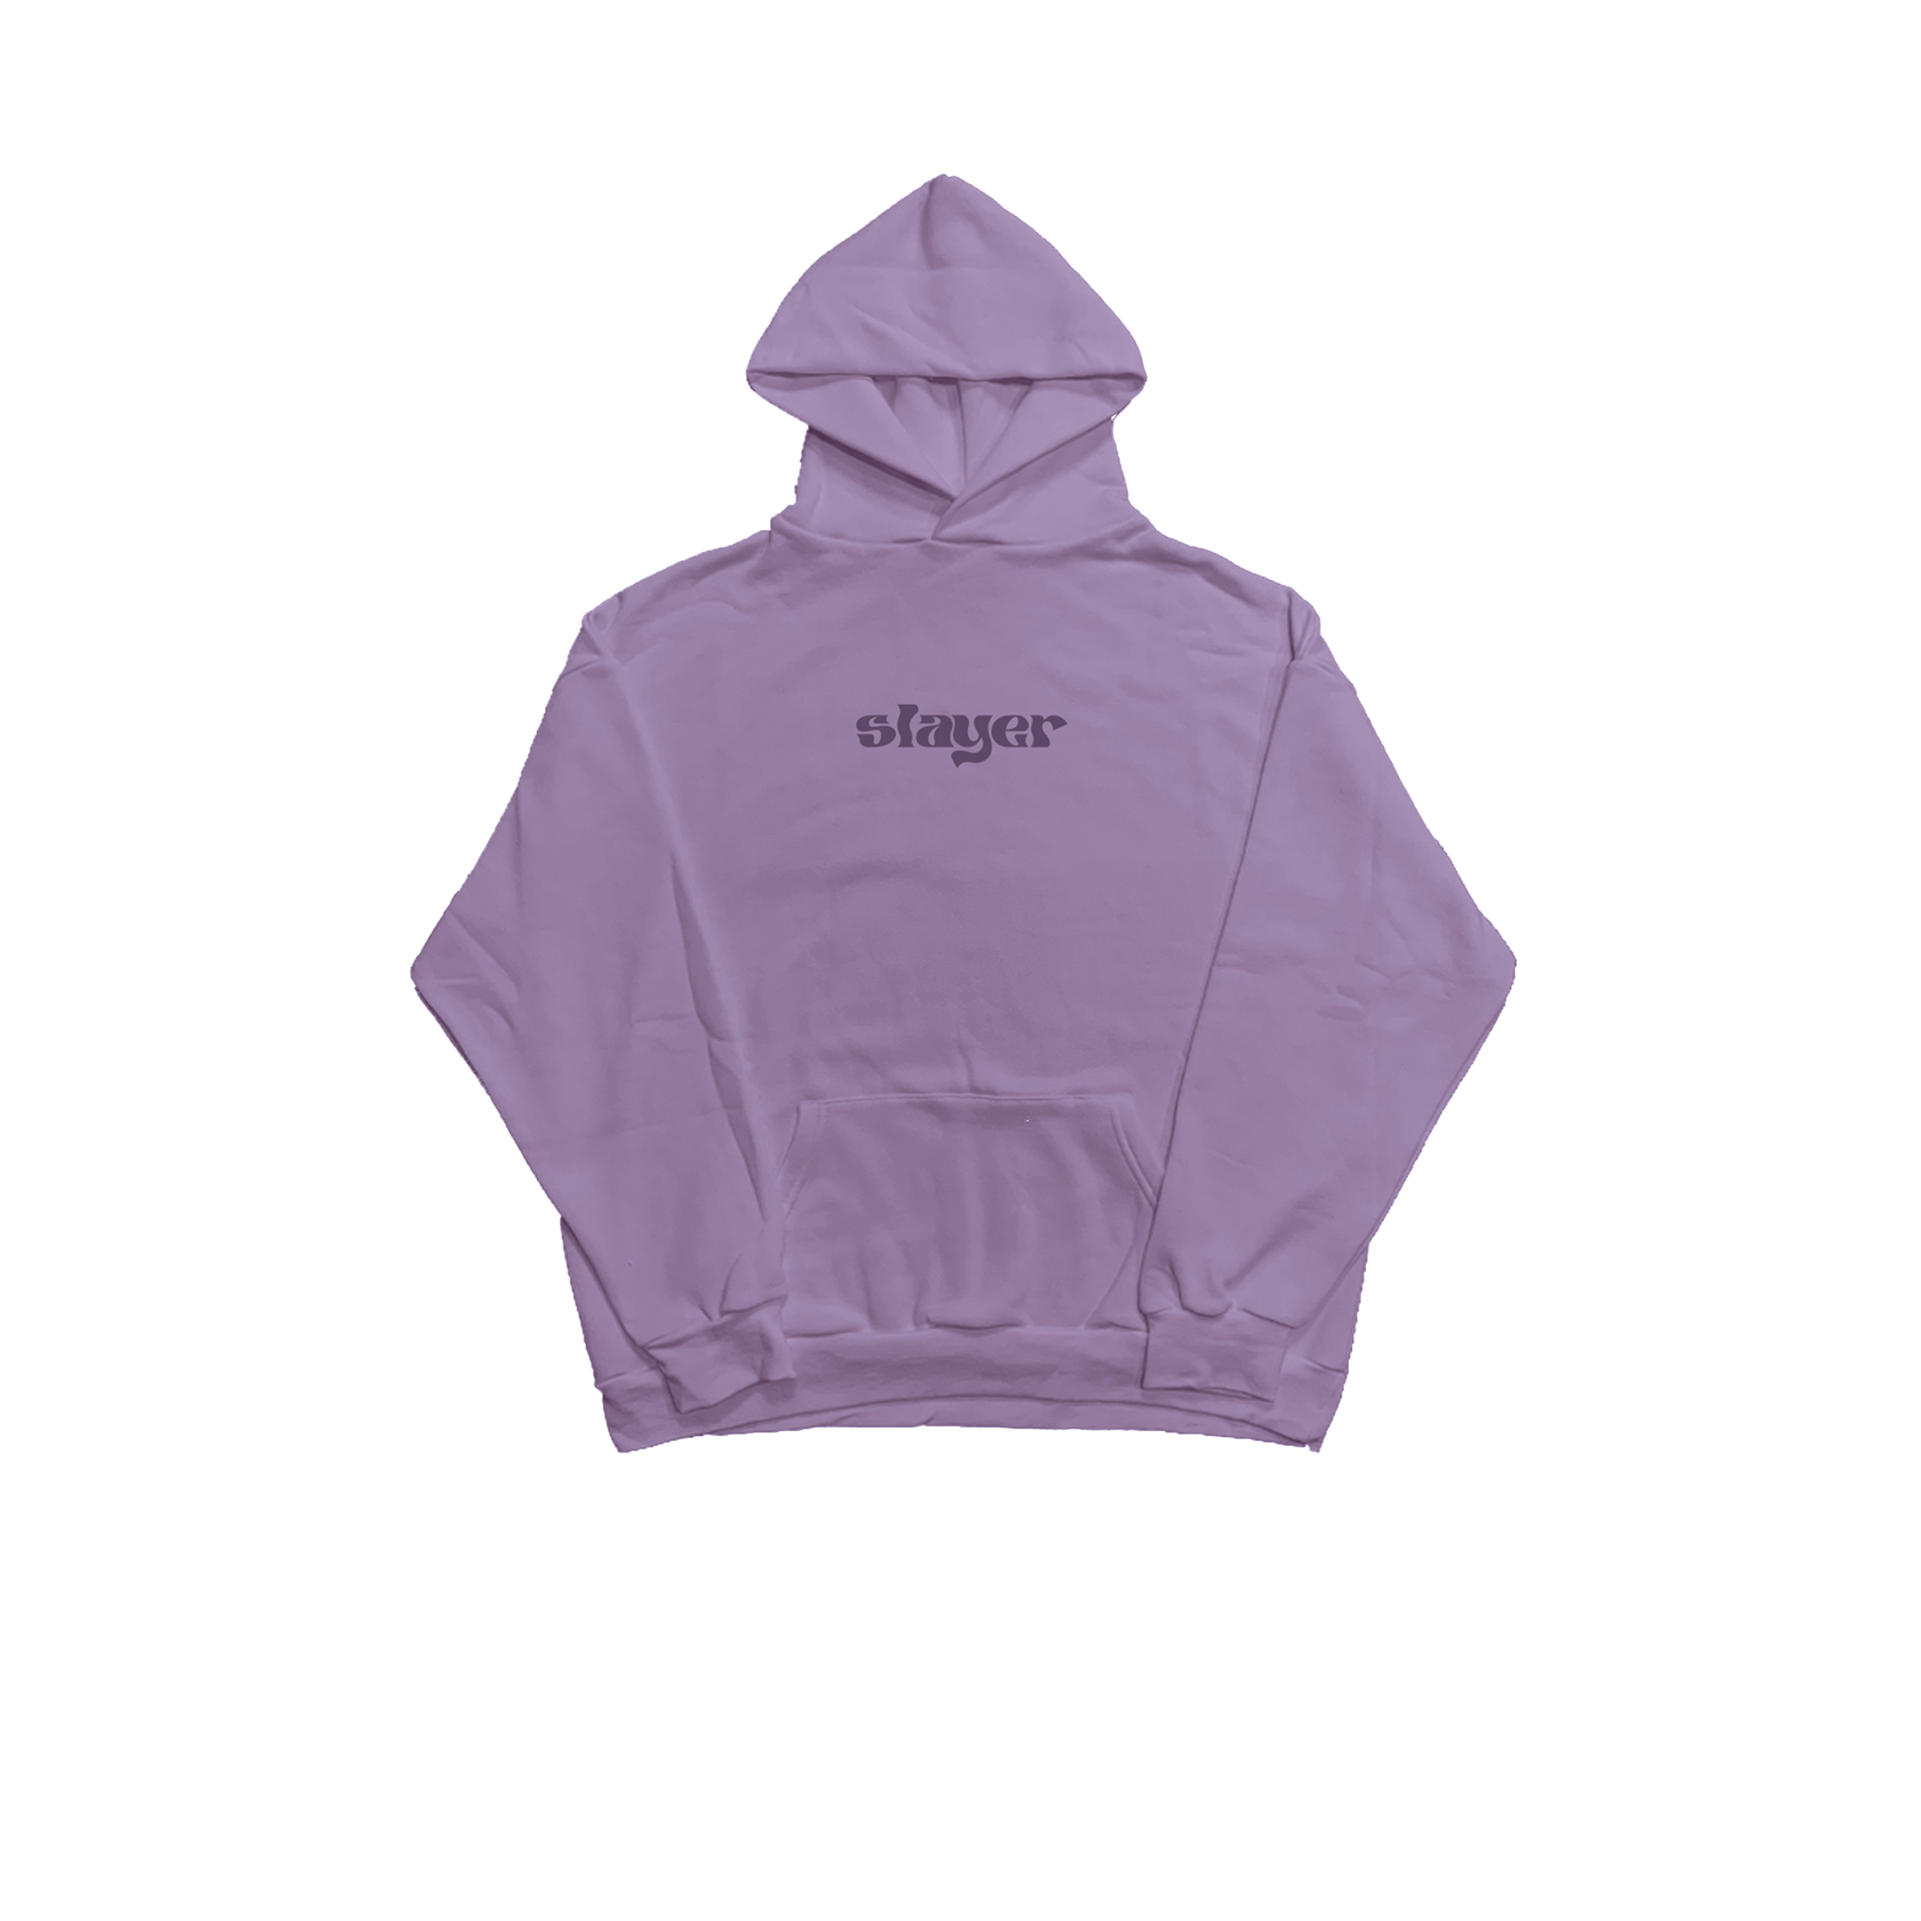
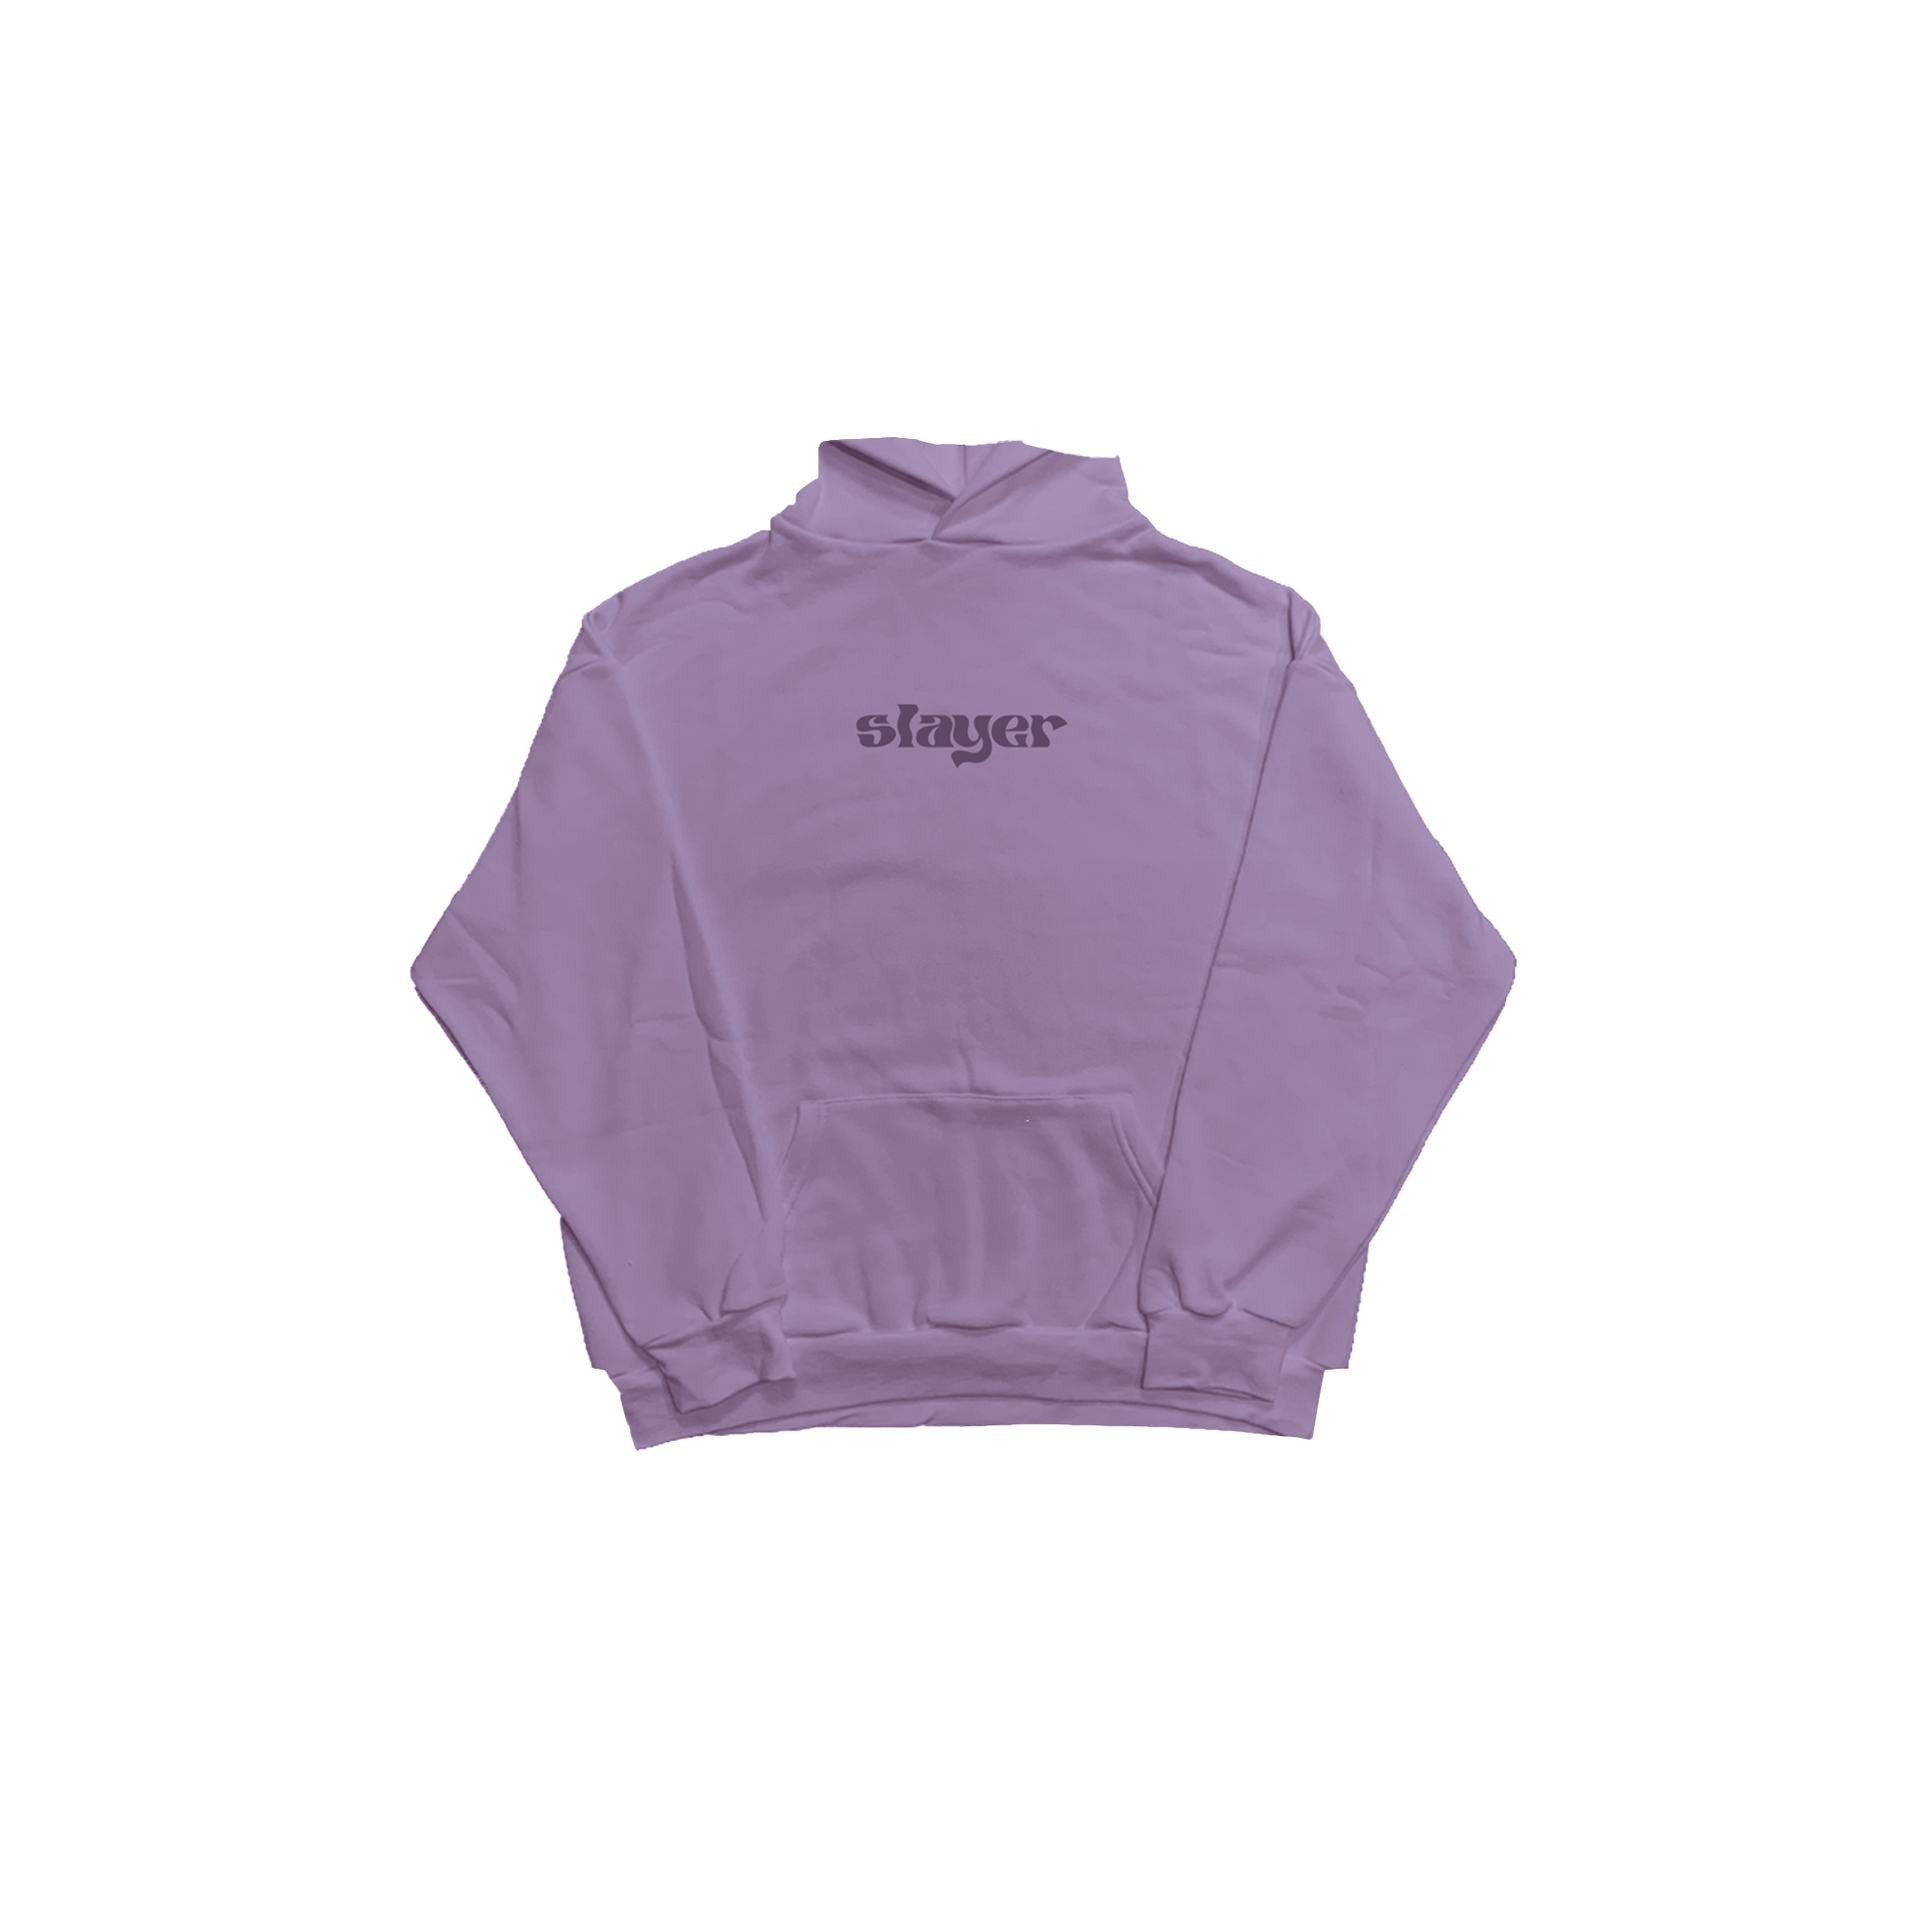
Initial commit

diff --git a/index.html b/index.html
@@ -1,6 +1,7 @@
 <!DOCTYPE html>
 <html lang="en">
 <head>
+  <link rel="icon" type="image/png" href="img/logo/slayer.jpeg">
   <link rel="stylesheet" href="https://cdnjs.cloudflare.com/ajax/libs/font-awesome/4.7.0/css/font-awesome.min.css">
     <link rel="stylesheet" href="index.css">
     <meta name="description" content="Introducing our dope new clothing brand! Our gear is made for everyone, from the streets to the club and beyond. We only use top-notch materials to ensure that our gear not only looks fly, but feels great too. Built to last, so you can rock your favorite pieces time and time again. We're all about staying true to our roots, and taking care of the environment. That's why we use eco-friendly materials and practices whenever we can.">
@@ -104,7 +105,7 @@
         <div id="offer1" class="offer">
             <div class="flipper">
               <div class="front" class="hidden">
-                <img src="img/PNGSLAYER/Melik----Gashi---Duksi.png" alt="">
+                <img src="img/PNGSLAYER/born-front.png" alt="">
               </div>
               <div class="back">
                 <img src="img/PNGSLAYER/born-back.png" alt="">

diff --git a/index.css b/index.css
@@ -256,7 +256,7 @@ body {
 .offers{
   margin-bottom: 5rem;
   display: flex;
-  width: 65%;
+  width: 53%;
   height: 60%;
   margin-left: auto;
   margin-right: auto;
@@ -524,9 +524,11 @@ a{
   #about{
     width: 80%;
   }
-
   body{
     font-size: 14px;
+    background-image: url(img/cropped\(1\).jpg);
+    background-size: cover;
+
   }
   #intro{
     font-size: 2rem;
